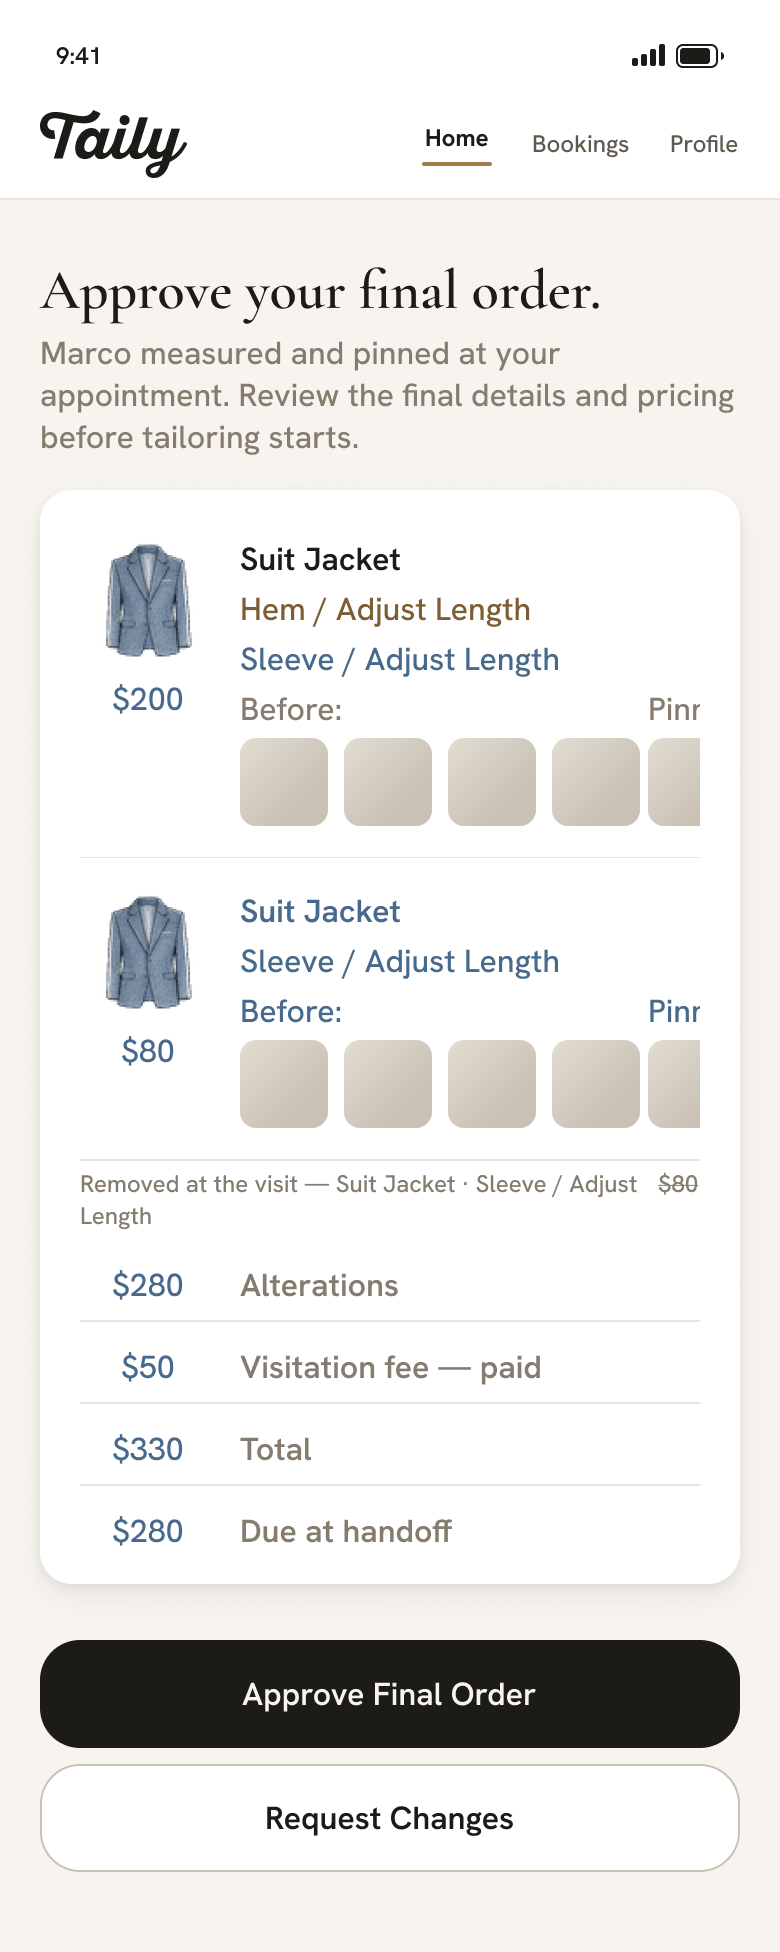
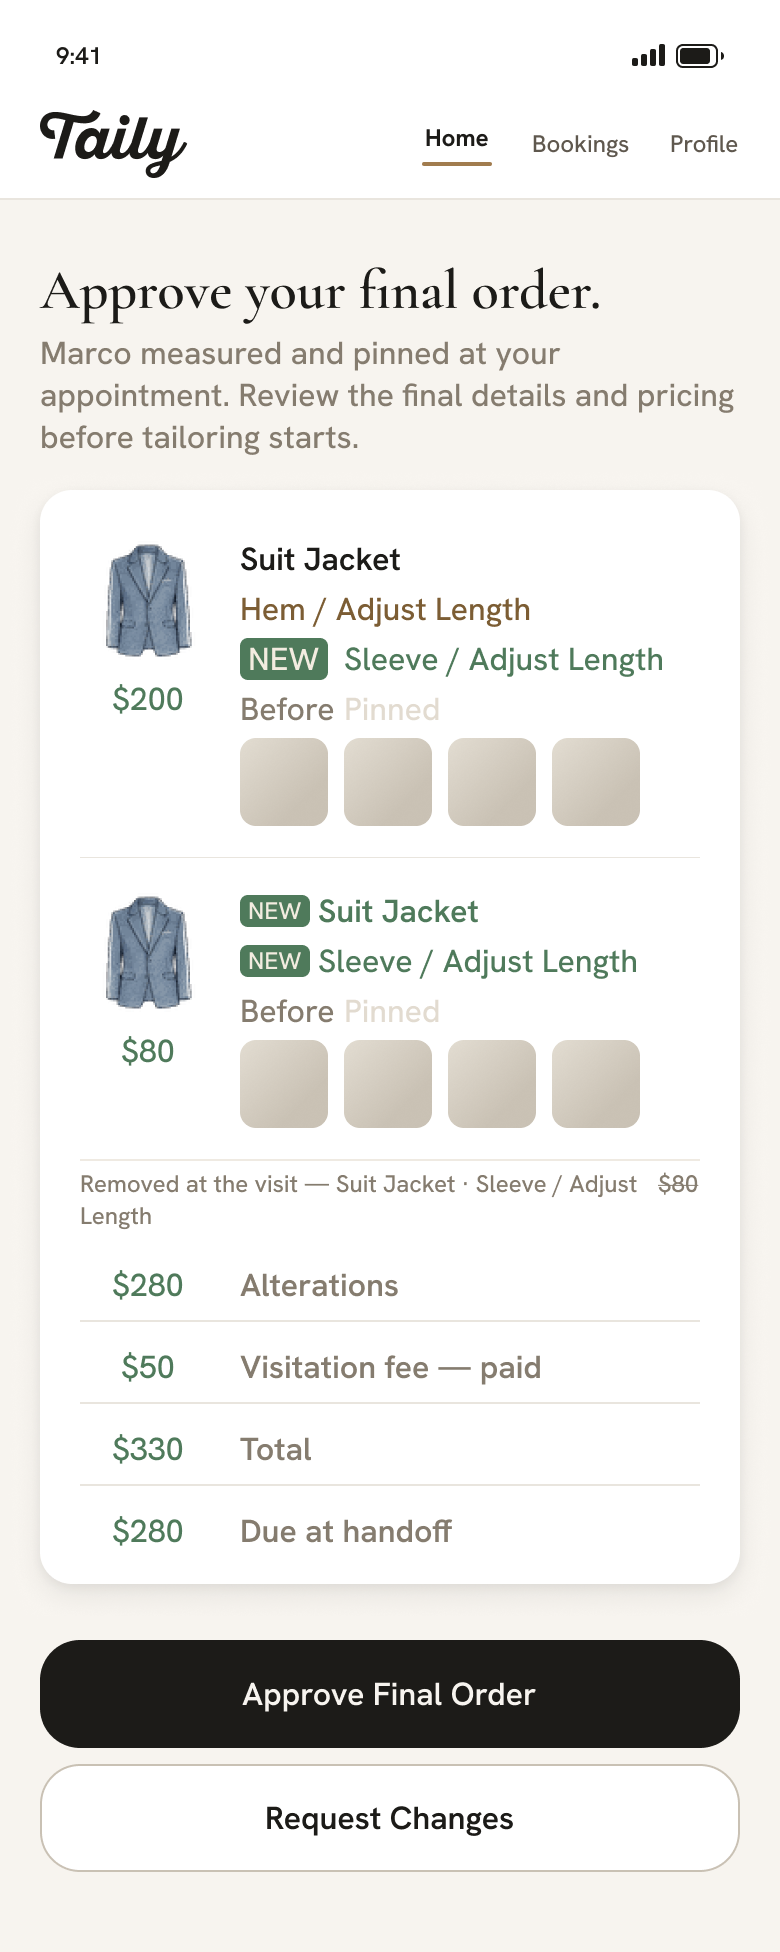
ux-loop: round 13 — NEW items in green (both personas, Figma synced), trust explorations for 03/Confirmed
- Items added at the visit carry a "NEW" sticker and paint semantic/success: added services,
  added garments (title + every service + price), and the money rows that changed
  (.fee-row--changed); semantic/info is gone from order changes. Marked customer cards draw the
  Additional variant's Before / Pinned label row (tappable) over one tile row.
- Figma (asked): 04 Re-tiered / Removed cards swapped to the Additional variant or copies of the
  NEW card; every info text on the three 04 frames → success; Tailor - Garment Card gained
  Additional_View; T05 uses it. Refs re-exported, four baselines re-accepted.
- Three Figma-only trust explorations of 03/Confirmed (Trust A Verified · B Track Record ·
  C Meet Marco) at the end of the 03 row — not in the harness until Kevin picks one.
- Harness selectors renamed; all seven check steps pass; UX-LOOP.md round 13 + CLAUDE.md note.

diff --git a/js/components.js b/js/components.js
@@ -372,7 +372,7 @@ export function garmentCard({
     : GARMENT_ICONS[type]
       ? `<span class="garment-card__artbox"><img class="garment-card__art" src="${GARMENT_ICONS[type]}" alt="${type}"></span>`
       : '';
-  const chip = `<div class="garment-card__chip">${art}${price != null ? `<span class="garment-card__price${(priceInfo || added) ? ' garment-card__price--info' : ''}">${price}</span>` : ''}</div>`;
+  const chip = `<div class="garment-card__chip">${art}${price != null ? `<span class="garment-card__price${(priceInfo || added) ? ' garment-card__price--new' : ''}">${price}</span>` : ''}</div>`;
 
   let rows;
   if (editable) {
@@ -386,10 +386,14 @@ export function garmentCard({
     ${added.map((s, j) => `<div class="garment-card__service">${additionalSelector({ value: s, attrs: `data-sel="added" data-ji="${j + 1}"${gi}` })}</div>`).join('')}
     ${additionalSelector({ attrs: `data-sel="add"${gi}` })}`;
   } else {
-    rows = `<div class="garment-card__row garment-card__row--tight">
-      <span>${qty}</span><span>${type}</span>
+    /* round 13 (Kevin): items added at the visit carry a NEW sticker and
+       paint semantic/success — the whole garment when `added`, one service
+       when its entry is { label, added } (frame: 04 / Modified, variant
+       'Additional' 687:7388 + the detached added-garment card). */
+    rows = `<div class="garment-card__row garment-card__row--tight${added ? ' garment-card__row--new' : ''}">
+      ${added ? '<span class="new-badge">NEW</span>' : ''}<span>${qty}</span><span>${type}</span>
     </div>
-    ${services.map((s) => `<div class="garment-card__service${(s.added || added) ? ' garment-card__service--info' : ''}">${s.label ?? s}</div>`).join('')}`;
+    ${services.map((s) => { const isNew = !!(s.added || added); return `<div class="garment-card__service${isNew ? ' garment-card__service--new' : ''}">${isNew ? '<span class="new-badge">NEW</span>' : ''}${s.label ?? s}</div>`; }).join('')}`;
   }
 
   let tiles = '';
@@ -399,16 +403,29 @@ export function garmentCard({
   } else if (variant === 'ViewOnly' && photos > 0) {
     tiles = `<div class="photo-tiles">${Array.from({ length: photos }, () => photoTile('photo')).join('')}</div>`;
   } else if (variant === 'PostAppt') {
-    const group = (label, n) => `<div class="photo-group">
-      <span class="photo-tiles__label">${label}</span>
-      <div class="photo-tiles">${Array.from({ length: n }, () => photoTile('photo')).join('')}</div>
+    const shots = (n) => Array.from({ length: n }, () => photoTile('photo')).join('');
+    const marked = added || services.some((s) => s && s.added);
+    if (marked) {
+      /* round 13: the Additional variant's Photo_Row — a Before / Pinned
+         label pair (active neutral-500, idle neutral-200) over ONE tile row;
+         tapping a label swaps the set (wirePhotoViewer). */
+      tiles = `<div class="photo-row photo-row--tabs" data-photo-tabs>
+      <span class="photo-tabs"><span class="photo-tiles__label is-active" data-photo-tab="before">Before</span><span class="photo-tiles__label" data-photo-tab="pinned">Pinned</span></span>
+      <div class="photo-tiles" data-photo-set="before">${shots(beforePhotos)}</div>
+      <div class="photo-tiles" data-photo-set="pinned" hidden>${shots(pinnedPhotos)}</div>
     </div>`;
-    tiles = `<div class="photo-row">${group('Before:', beforePhotos)}${group('Pinned:', pinnedPhotos)}</div>`;
+    } else {
+      const group = (label, n) => `<div class="photo-group">
+      <span class="photo-tiles__label">${label}</span>
+      <div class="photo-tiles">${shots(n)}</div>
+    </div>`;
+      tiles = `<div class="photo-row">${group('Before:', beforePhotos)}${group('Pinned:', pinnedPhotos)}</div>`;
+    }
   }
 
   const close = editable ? `<button type="button" class="garment-card__close" data-act="remove-garment"${index === null ? '' : ` data-gi="${index}"`} aria-label="Remove garment">✕</button>` : '';
 
-  return `<article class="garment-card${editable ? '' : ' garment-card--view'}${flat ? ' garment-card--flat' : ''}${added ? ' garment-card--info' : ''}">
+  return `<article class="garment-card${editable ? '' : ' garment-card--view'}${flat ? ' garment-card--flat' : ''}${added ? ' garment-card--new' : ''}">
   ${chip}
   <div class="garment-card__content">
     ${rows}
@@ -766,7 +783,7 @@ export function requestCard({ name, initials, rows = [] } = {}) {
     muted: neutral-500 price + caption (R7-T-02 — money that is no
     longer on offer, e.g. an expired request's "Payout offered"). */
 export function feeRow(price, desc, { line = false, info = false, muted = false } = {}) {
-  return `<div class="fee-row${line ? ' fee-row--line' : ''}${info ? ' fee-row--info' : ''}${muted ? ' fee-row--muted' : ''}"><span class="fee-row__price">${price}</span><span class="fee-row__desc">${desc}</span></div>`;
+  return `<div class="fee-row${line ? ' fee-row--line' : ''}${info ? ' fee-row--changed' : ''}${muted ? ' fee-row--muted' : ''}"><span class="fee-row__price">${price}</span><span class="fee-row__desc">${desc}</span></div>`;
 }
 
 /* ============================================================

diff --git a/js/tailor-components.js b/js/tailor-components.js
@@ -282,7 +282,7 @@ export function tailorGarmentCard({
   services = ['Hem / Adjust Length'], addedJobs = [], before = 0, pinned = 0, comment = '', commentOpen = false, index = 0,
 }) {
   const art = GARMENT_ICONS[type] ? `<span class="garment-card__artbox"><img class="garment-card__art" src="${GARMENT_ICONS[type]}" alt="${type}"></span>` : '';
-  const chip = `<div class="garment-card__chip">${art}<span class="garment-card__price${(priceInfo || added) ? ' garment-card__price--info' : ''}">${price}</span></div>`;
+  const chip = `<div class="garment-card__chip">${art}<span class="garment-card__price${(priceInfo || added) ? ' garment-card__price--new' : ''}">${price}</span></div>`;
   const gi = ` data-gi="${index}"`;
   const shots = (n) => Array.from({ length: n }, () => photoTile('photo')).join('');
   let rows;
@@ -303,14 +303,15 @@ export function tailorGarmentCard({
     <div class="tgc__group"><span class="tgc__label">Upload Pinned Photos</span><div class="photo-tiles">${shots(pinned)}${addTile('pinned')}</div></div>
     ${note}`;
   } else {
-    rows = `<div class="garment-card__row garment-card__row--tight"><span>${qty}</span><span>${type}</span></div>
-    ${services.map((s) => `<div class="garment-card__service${(added || addedJobs.includes(s)) ? ' garment-card__service--info' : ''}">${s}</div>`).join('')}
+    /* round 13 (Kevin): additions carry the NEW sticker + semantic/success, like the customer's 04 */
+    rows = `<div class="garment-card__row garment-card__row--tight${added ? ' garment-card__row--new' : ''}">${added ? '<span class="new-badge">NEW</span>' : ''}<span>${qty}</span><span>${type}</span></div>
+    ${services.map((s) => { const isNew = added || addedJobs.includes(s); return `<div class="garment-card__service${isNew ? ' garment-card__service--new' : ''}">${isNew ? '<span class="new-badge">NEW</span>' : ''}${s}</div>`; }).join('')}
     <div class="tgc__group"><span class="tgc__label">Before Photos</span><div class="photo-tiles">${before ? shots(before) : photoTile('add')}</div></div>
     <div class="tgc__group"><span class="tgc__label">Pinned Photos</span><div class="photo-tiles">${pinned ? shots(pinned) : photoTile('add')}</div></div>
     <span class="tgc__comment-view">“${comment ? esc(comment) : 'Comment'}”</span>`;
   }
   const close = variant === 'Appt' ? `<button type="button" class="garment-card__close" data-act="remove-garment"${gi} aria-label="Remove garment">✕</button>` : '';
-  return `<article class="garment-card tgc${variant === 'Appt' ? '' : ' garment-card--view'}${added ? ' garment-card--info' : ''}">
+  return `<article class="garment-card tgc${variant === 'Appt' ? '' : ' garment-card--view'}${added ? ' garment-card--new' : ''}">
   ${chip}
   <div class="garment-card__content tgc__content">${rows}</div>
   ${close}

diff --git a/css/components.css b/css/components.css
@@ -689,10 +689,33 @@
   color: var(--accent-ink);
 }
 /* Phase R0 (06B): items added/changed at order confirmation */
-.garment-card--view .garment-card__service--info { color: var(--info); }
-.garment-card__price--info { color: var(--info); }
-.garment-card--info .garment-card__row,
-.garment-card--info .photo-tiles__label { color: var(--info); }
+/* Round 13 (Kevin): items added at the visit — NEW sticker (semantic/success
+   fill, accent/bg 12/16 Medium text, r4, 0/4 padding — the 04 / Modified
+   instances; the New_Sticker master draws 16px, raised) + success text on the
+   added service line / the whole added garment's title + price. */
+.new-badge {
+  display: inline-flex;
+  align-items: center;
+  height: 16px;
+  padding: 0 var(--space-4);
+  border-radius: var(--radius-4);
+  background: var(--success);
+  color: var(--accent-bg);
+  font-family: var(--font-sans);
+  font-size: var(--size-12);
+  line-height: 16px;
+  font-weight: 500;
+  flex-shrink: 0;
+}
+.garment-card__row--new { gap: var(--space-4); color: var(--success); }
+.garment-card--view .garment-card__service--new { display: flex; align-items: center; gap: var(--space-4); color: var(--success); }
+.garment-card__price--new { color: var(--success); }
+/* the Additional variant's Photo_Row: Before / Pinned labels over one tile row */
+.photo-row--tabs { flex-direction: column; overflow: visible; margin-right: 0; }
+.photo-tabs { display: flex; gap: var(--space-4); }
+.photo-tabs .photo-tiles__label { color: var(--neutral-200); cursor: pointer; }
+.photo-tabs .photo-tiles__label.is-active { color: var(--neutral-500); }
+.photo-row--tabs [data-photo-set][hidden] { display: none; }   /* the class display beats the hidden attribute */
 
 /* ---------- Selector — Figma 535:1582 ----------
    Inline dropdown in garment cards. Quantity/Item triggers SemiBold 16
@@ -1216,7 +1239,8 @@
 }
 .removed-row s { flex-shrink: 0; color: var(--neutral-500); }
 /* Phase R0 (06B): totals touched by the modified order */
-.fee-row--info .fee-row__price { color: var(--info); }
+/* round 13 (Kevin): money that changed at the visit is green like the items */
+.fee-row--changed .fee-row__price { color: var(--success); }
 /* UX-LOOP R7-T-02 (T02 expired): money no longer on offer — the closed
    rows' muted colour on price and caption ("Payout offered") */
 .fee-row--muted .fee-row__price, .fee-row--muted .fee-row__desc { color: var(--neutral-500); }

diff --git a/css/tailor.css b/css/tailor.css
@@ -202,7 +202,7 @@
 .tgc__comment .icon-add-circle { width: 14px; height: 14px; }
 /* the frame paints “Comment” accent-ink (T05 449:809, verified via API) */
 .tgc__comment-view { font-family: var(--font-sans); font-size: var(--size-16); line-height: 21px; font-weight: 600; color: var(--accent-ink); }
-.tgc .garment-card__service--info { color: var(--info); }
+.tgc .garment-card__service--new { display: flex; align-items: center; gap: var(--space-4); color: var(--success); }   /* round 13: NEW sticker + success */
 /* at-visit editor (R1-T-03): tappable add-tile, the tailor's note.
    Added-service rows carry full JOB_TYPES names ("Sleeve / Adjust
    Length") where 02 only ever shows the short menu names — keep the
@@ -328,5 +328,5 @@ html.has-toast .stage-caption { bottom: calc(var(--space-16) + var(--space-40) +
   margin: 0;
   width: 100%;
   text-align: center;
-  font-family: var(--font-sans); font-size: var(--size-14); line-height: 18px; font-weight: 600; color: var(--info);
+  font-family: var(--font-sans); font-size: var(--size-14); line-height: 18px; font-weight: 600; color: var(--success);   /* round 13 */
 }

diff --git a/js/screens/03.3-photo-viewer.js b/js/screens/03.3-photo-viewer.js
@@ -100,6 +100,15 @@ export function wirePhotoViewer(root) {
     row.addEventListener('click', (e) => {
       e.stopPropagation();
       if (dragged) { e.preventDefault(); dragged = false; return; }
+      /* round 13: the Before / Pinned labels on a NEW card swap the tile set instead of opening the viewer */
+      const tab = e.target.closest('[data-photo-tab]');
+      if (tab) {
+        e.preventDefault();
+        const which = tab.dataset.photoTab;
+        row.querySelectorAll('[data-photo-tab]').forEach((t) => t.classList.toggle('is-active', t === tab));
+        row.querySelectorAll('[data-photo-set]').forEach((set) => { set.hidden = set.dataset.photoSet !== which; });
+        return;
+      }
       const card = row.closest('.garment-card');
       const garment = card?.querySelector('.garment-card__row--tight span:last-child')?.textContent ?? 'Suit Jacket';
       openPhotoViewer({ garment });

diff --git a/js/screens/04-review-approve.js b/js/screens/04-review-approve.js
@@ -44,7 +44,7 @@ export function viewReview(s, screenId, fixture) {
   <div class="heading">
     <h1 class="t-title w-600 c-ink">Approve your final order.</h1>
     <p class="t-body w-500 c-500">${first} measured and pinned at your appointment. Review the final details and pricing before tailoring starts.</p>
-    ${live && a.resentAt ? `<p class="t-small w-500 c-info" data-resent>${first} updated the order on ${fmtDay(a.resentAt)}. Changes are highlighted below.</p>` : ''}
+    ${live && a.resentAt ? `<p class="t-small w-500 c-success" data-resent>${first} updated the order on ${fmtDay(a.resentAt)}. Changes are highlighted below.</p>` : ''}
   </div>
   <div class="garments-card">
     ${orderCards(o, { variant: 'PostAppt', marks: true })}

diff --git a/css/tokens.css b/css/tokens.css
@@ -53,6 +53,7 @@
   --space-40: 40px;
 
   /* ---------- Radius · Taily / Radius ---------- */
+  --radius-4: 4px;               /* not a Figma variable — the New_Sticker's literal r4 (687:7420) */
   --radius-sm: 8px;
   --radius-md: 12px;
   --radius-lg: 16px;

diff --git a/UX-LOOP.md b/UX-LOOP.md
@@ -1147,8 +1147,72 @@ state the Test flows menu already covers.
   customer's $50 / $90 / $150; the click-through sweeps for those captions.
 
 
+
+## Round 13 — NEW items in green, trust explorations for 03/Confirmed (Sep 13 2026)
+
+### Kevin's asks and answers
+- **04 / Modified**: the User - Garment Card has a new `Additional` variant (687:7388) — items added
+  at the visit read in semantic/success with a "NEW" sticker; apply the format everywhere.
+  Answers: **04 × 3 plus the tailor's T05**; **green everywhere the order changed** (money rows too).
+- **Figma only**: three versions of 03 / Order Status / Confirmed that build trust in the tailor
+  (feedback: a stranger coming into the home). Answers: lean on credentials (verified ID,
+  background check, insured), track record (years, jobs, rating + quotes) and the person (photo,
+  bio, specialties, languages); **sibling frames, exploration only** (not in the harness).
+
+### Results (code, both personas)
+- `garmentCard` (PostAppt) and `tailorGarmentCard` (Appt_View): an added service line gets
+  `.new-badge` ("NEW", 12/16 Medium, success fill, accent/bg text, r4 `--radius-4`) + success
+  text (`.garment-card__service--new`); an added garment gets the badge on its title row
+  (`.garment-card__row--new`), on every service line, and a success price
+  (`.garment-card__price--new`, card class `.garment-card--new`). Money rows that changed are
+  `.fee-row--changed` (success); 04's "updated the order" line and T05's payout-change line are
+  success too. Marked customer cards draw the variant's Photo_Row: Before / Pinned labels over one
+  tile row (tapping a label swaps the set; `wirePhotoViewer`).
+- Harness selectors renamed (`--info` → `--new` / `--changed`); customer 220 / tailor 361 /
+  sync 1008 / flows 89; refs re-exported and baselines re-accepted for the three 04 frames and T05.
+
+### Figma (asked): the 04 frames, T05 and a tailor variant
+- **04 / Re-tiered · Removed**: the added-service cards were swapped to the `Additional` variant
+  (Hem + NEW Sleeve); the added garments (third jacket, both pants) are copies of Kevin's detached
+  NEW card from 04 / Modified (old instances hidden, not deleted; icon fills copied). Every
+  semantic/info text on the three 04 frames is now semantic/success (money rows included).
+  Kevin's card-3 price read $55 — set to the fiction's $80 (totals were already $360 / $410).
+- **Tailor - Garment Card** gained `Property 1=Additional_View` (690:3457, Components page):
+  Appt_View + NEW stickers on the title row and both service rows (instances hide the ones that
+  don't apply), success text. T05's cards 1 and 3 use it; T05's remaining info text → success.
+- Refs: 04 Modified / Re-tiered / Removed and T05 re-exported; baselines 0.46 / 0.60 / 0.62 / 9.48.
+
+### Trust explorations — `03 - Order Status / Confirmed / Trust A · B · C` (694:3129 · 694:3245 · 694:3361)
+Clones of 03/Confirmed at the end of the 03 row (x 8460 / 8930 / 9400), built from existing
+components + variable-bound frames (white card r16 with the summary card's shadow, space/* padding,
+size/* type, Hanken / Cormorant), nothing added to `screens.json` or the click-throughs.
+- **A — Verified (safety-led)**: under the tailor card, "Taily-verified tailor" with three
+  success-bg badges (ID verified · Background check · Insured visit), a "What Taily checks" list
+  (ID + address confirmed in person, background check renewed yearly, visits insured to $5,000),
+  a cancel-any-time line; the CTA bar's hidden fourth CTA is shown as "Share This Visit With Someone".
+- **B — Track record (social proof)**: "★ 4.9 · 128 reviews on Taily", three stat tiles (15 years ·
+  312 Taily visits · 98% on time), two review quotes (Priya R. · Tribeca, Daniel K. · SoHo) and
+  "Read all 128 reviews ›".
+- **C — Meet Marco (human-led)**: the tailor card is replaced by a profile card — photo slot
+  (media/placeholder, 310×180), Cormorant name + "✓ Taily-verified", "Tailor for 15 years ·
+  Tribeca, 1.2 mi away", a two-sentence bio that promises the ID at the door, specialty chips
+  (Suits · Trousers · Dresses · Outerwear), "Speaks English · Italian", and the visit rows
+  (address / time / need-by) under a hairline.
+Pick one (or a mix) and it becomes the 03/Confirmed frame + code; the facts (rating, years,
+reviews, languages, photo) would need a home in `data.js` TAILORS.
+
+### Flags (low)
+- The `New_Sticker` master (687:7420) draws 16px text (44×21) while every instance on 04 /
+  Modified overrides it to 12px (35×16) — built the 12/16 the frame draws.
+- The `Additional` variant's Photo_Row (Before / Pinned labels over one row) differs from the
+  PostAppt variant's two scrolling groups — built both as drawn; say if the PostAppt cards should
+  adopt the label row too.
+- No `radius/4` variable exists for the sticker's r4 — `--radius-4` is marked not-a-Figma-variable.
+- T05 / T06 shots are ~30px shorter than their frames (the tailor cards' Comments row is 29 tall in
+  Figma, 21 in code) — pre-existing since the fast build, inside the 9.4 / 8.2 baselines.
+
 ## Figma sync pending (ledger — Kevin: Figma is written only when asked, Sep 13 2026)
 
 Rounds are code + harness by default. Every frame edit a round would have made is listed here (frame · node · old → new) and stays until Kevin says "sync Figma"; text-parity ALLOW entries and accepted baselines for these carry a `pending-figma` note. On sync: `npm run figma:find "<text>"` for the ids, one `use_figma` call per page, `npm run refs`, re-accept the diffs, clear the entries below.
 
-- (nothing pending — round 12 was synced in full)
+- (nothing pending — rounds 12 and 13 were synced in full; the round-13 trust explorations are Figma-only by design)

diff --git a/CLAUDE.md b/CLAUDE.md
@@ -24,7 +24,7 @@ Plain HTML/CSS/JS, no build step; deploys to GitHub Pages from `main`. Visual so
 
 ## Money model (round 12)
 
-Visitation fee by item count — customer **$50 / $90 / $150** for 1–4 / 5–10 / 11+ items (`visitFee`), held at request, charged when a tailor accepts, refundable until the customer confirms on the 24-hour prompt. The tailor's **cut** on the same bands is **$25 / $50 / $90** (`tailorFee`); `payout()` = alteration prices + cut, printed as a "Visitation fee" row above "Your payout"; no-show compensation = the cut. Alterations (+ $20 delivery) are paid at handoff. A re-tiered fee is ONE row (updated amount in info, "Visitation fee — 5 items, $90 tier"). No deposit, no commission; the tailor never sees the customer's fee amount or totals. One garment = one item (no quantities). Seed: $200 + $50 = $250 booked; $360 + $50 = $410 final; payouts $225 → $385.
+Visitation fee by item count — customer **$50 / $90 / $150** for 1–4 / 5–10 / 11+ items (`visitFee`), held at request, charged when a tailor accepts, refundable until the customer confirms on the 24-hour prompt. The tailor's **cut** on the same bands is **$25 / $50 / $90** (`tailorFee`); `payout()` = alteration prices + cut, printed as a "Visitation fee" row above "Your payout"; no-show compensation = the cut. Alterations (+ $20 delivery) are paid at handoff. A re-tiered fee is ONE row ("Visitation fee — 5 items, $90 tier"). **Round 13: everything that changed at the visit paints semantic/success** — added services / garments carry a `.new-badge` ("NEW", 12/16, `--radius-4`) and success text (`garmentCard` PostAppt + `tailorGarmentCard` Appt_View; Figma: User - Garment Card `Additional` 687:7388, Tailor - Garment Card `Additional_View` 690:3457), changed money rows are `.fee-row--changed`; semantic/info is no longer used for order changes. Marked customer cards draw the variant's Before / Pinned label row (tappable) over one tile row. No deposit, no commission; the tailor never sees the customer's fee amount or totals. One garment = one item (no quantities). Seed: $200 + $50 = $250 booked; $360 + $50 = $410 final; payouts $225 → $385.
 
 ## Working rules (token budget)
 
